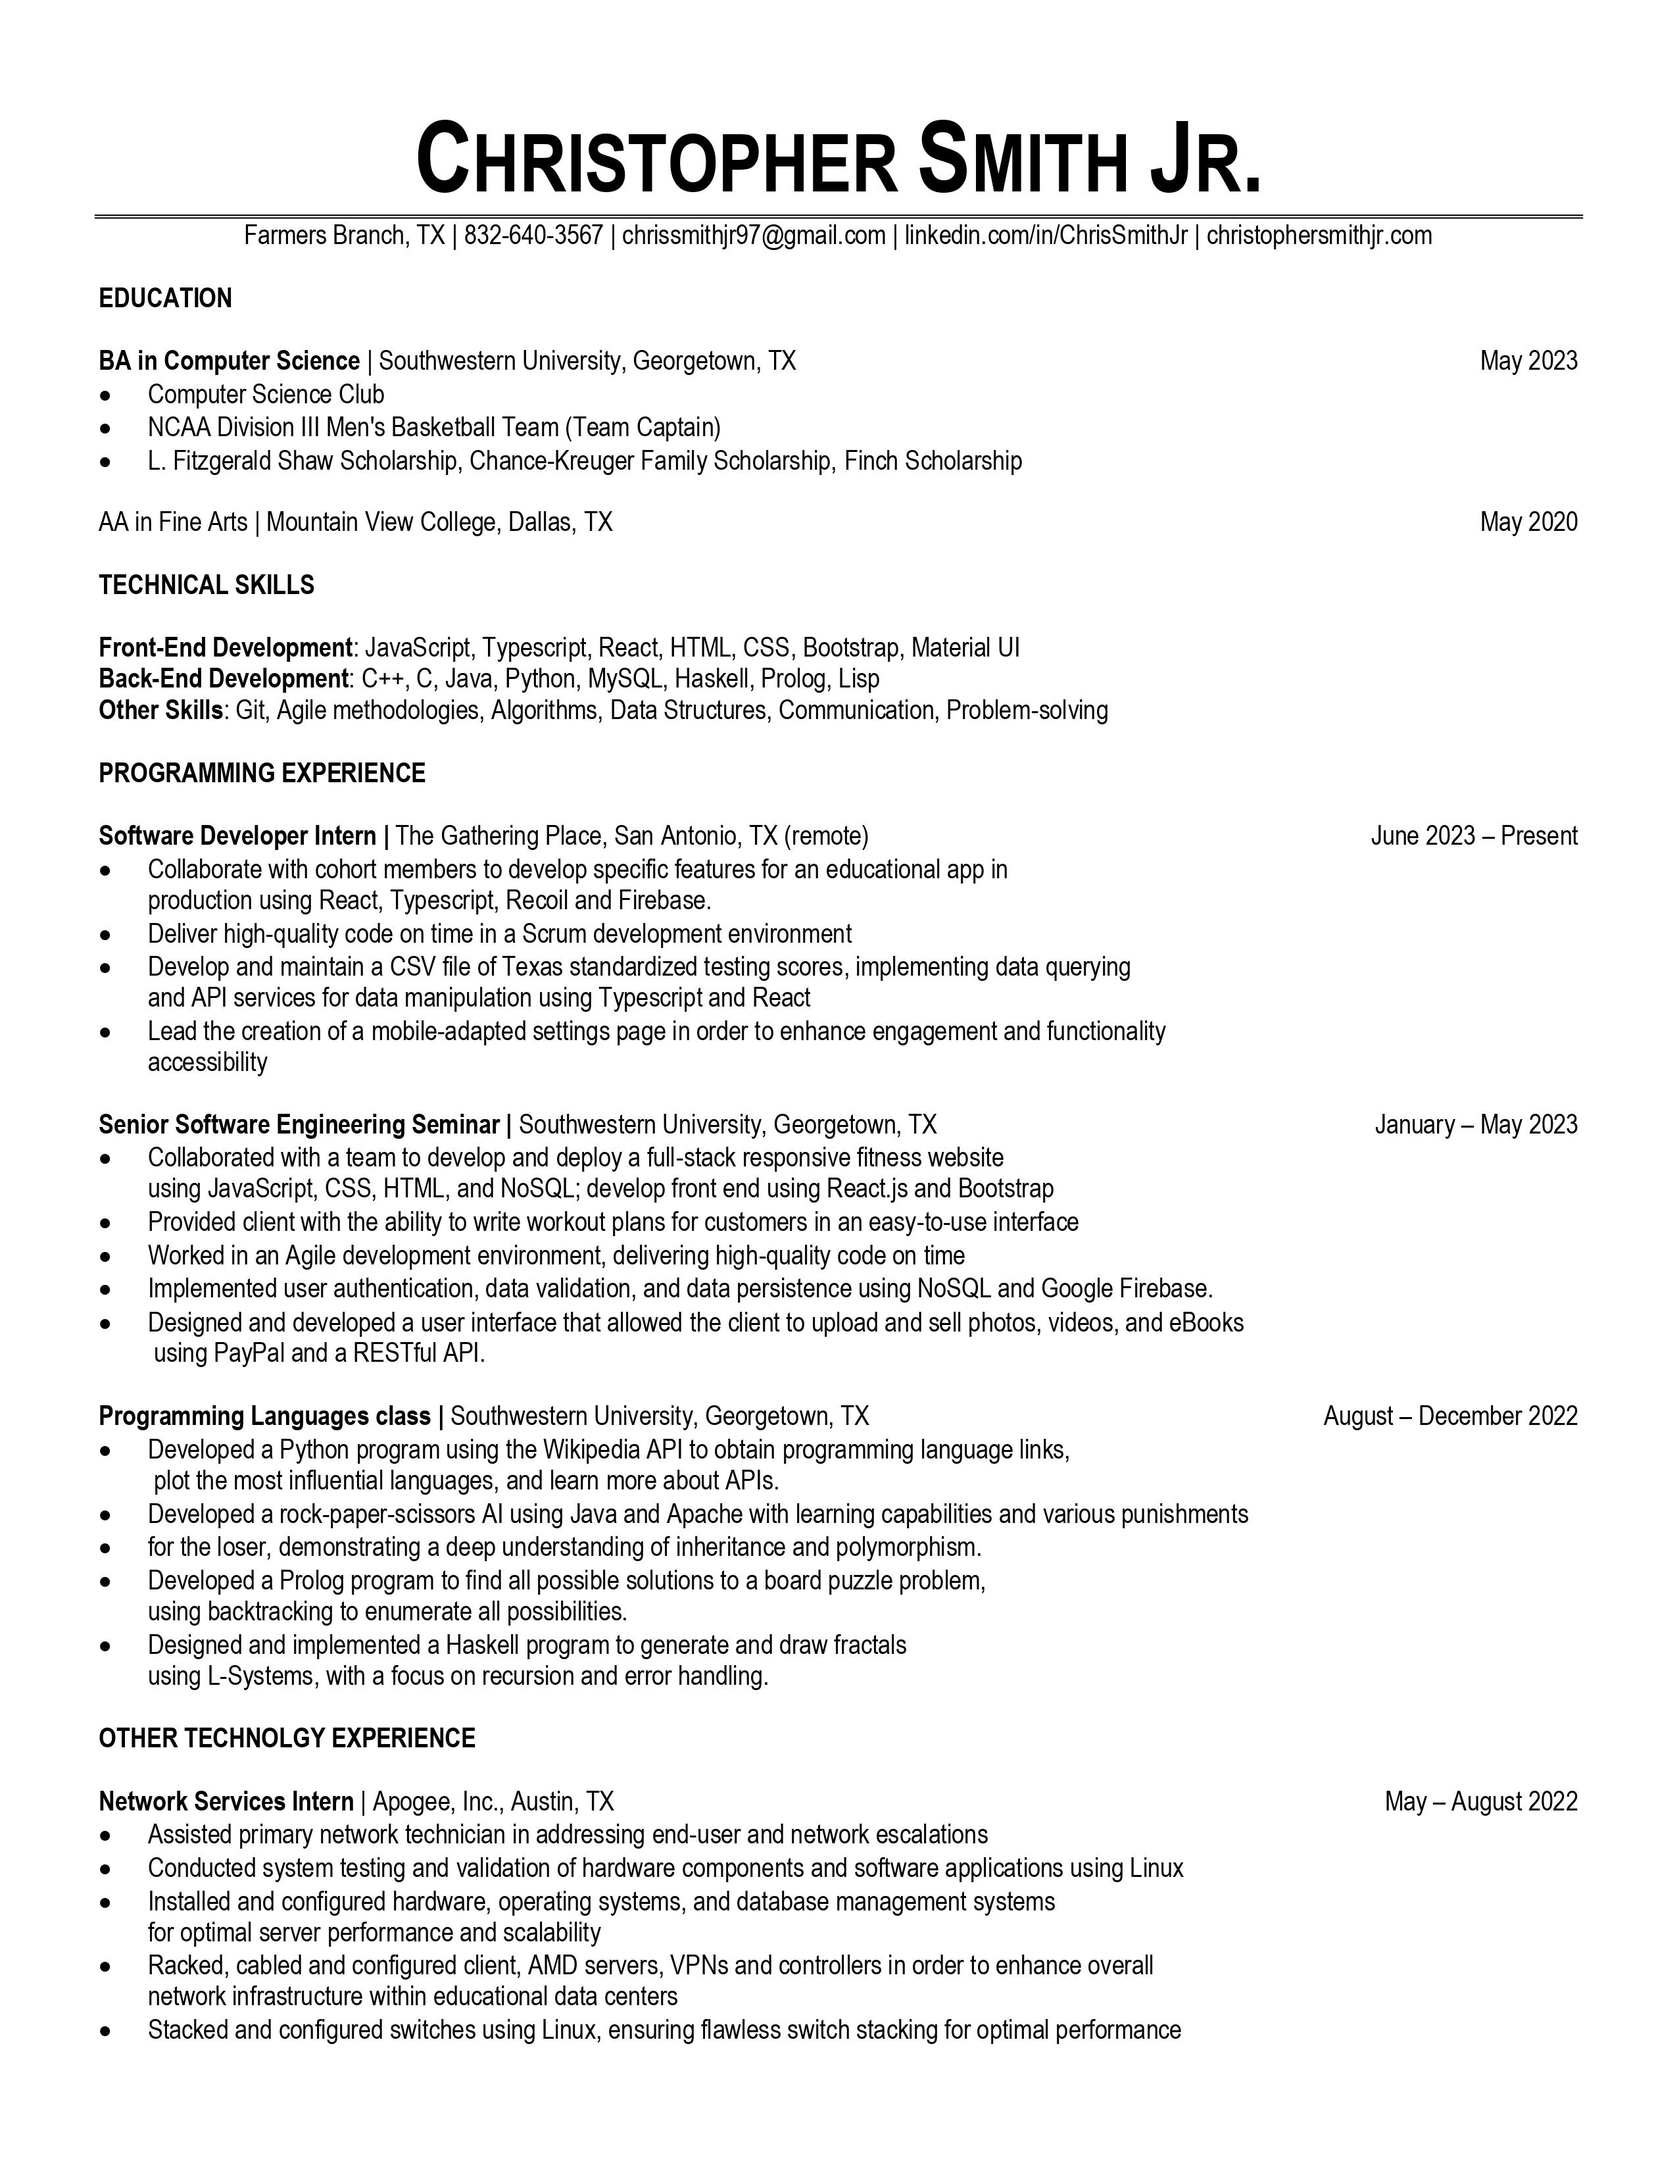
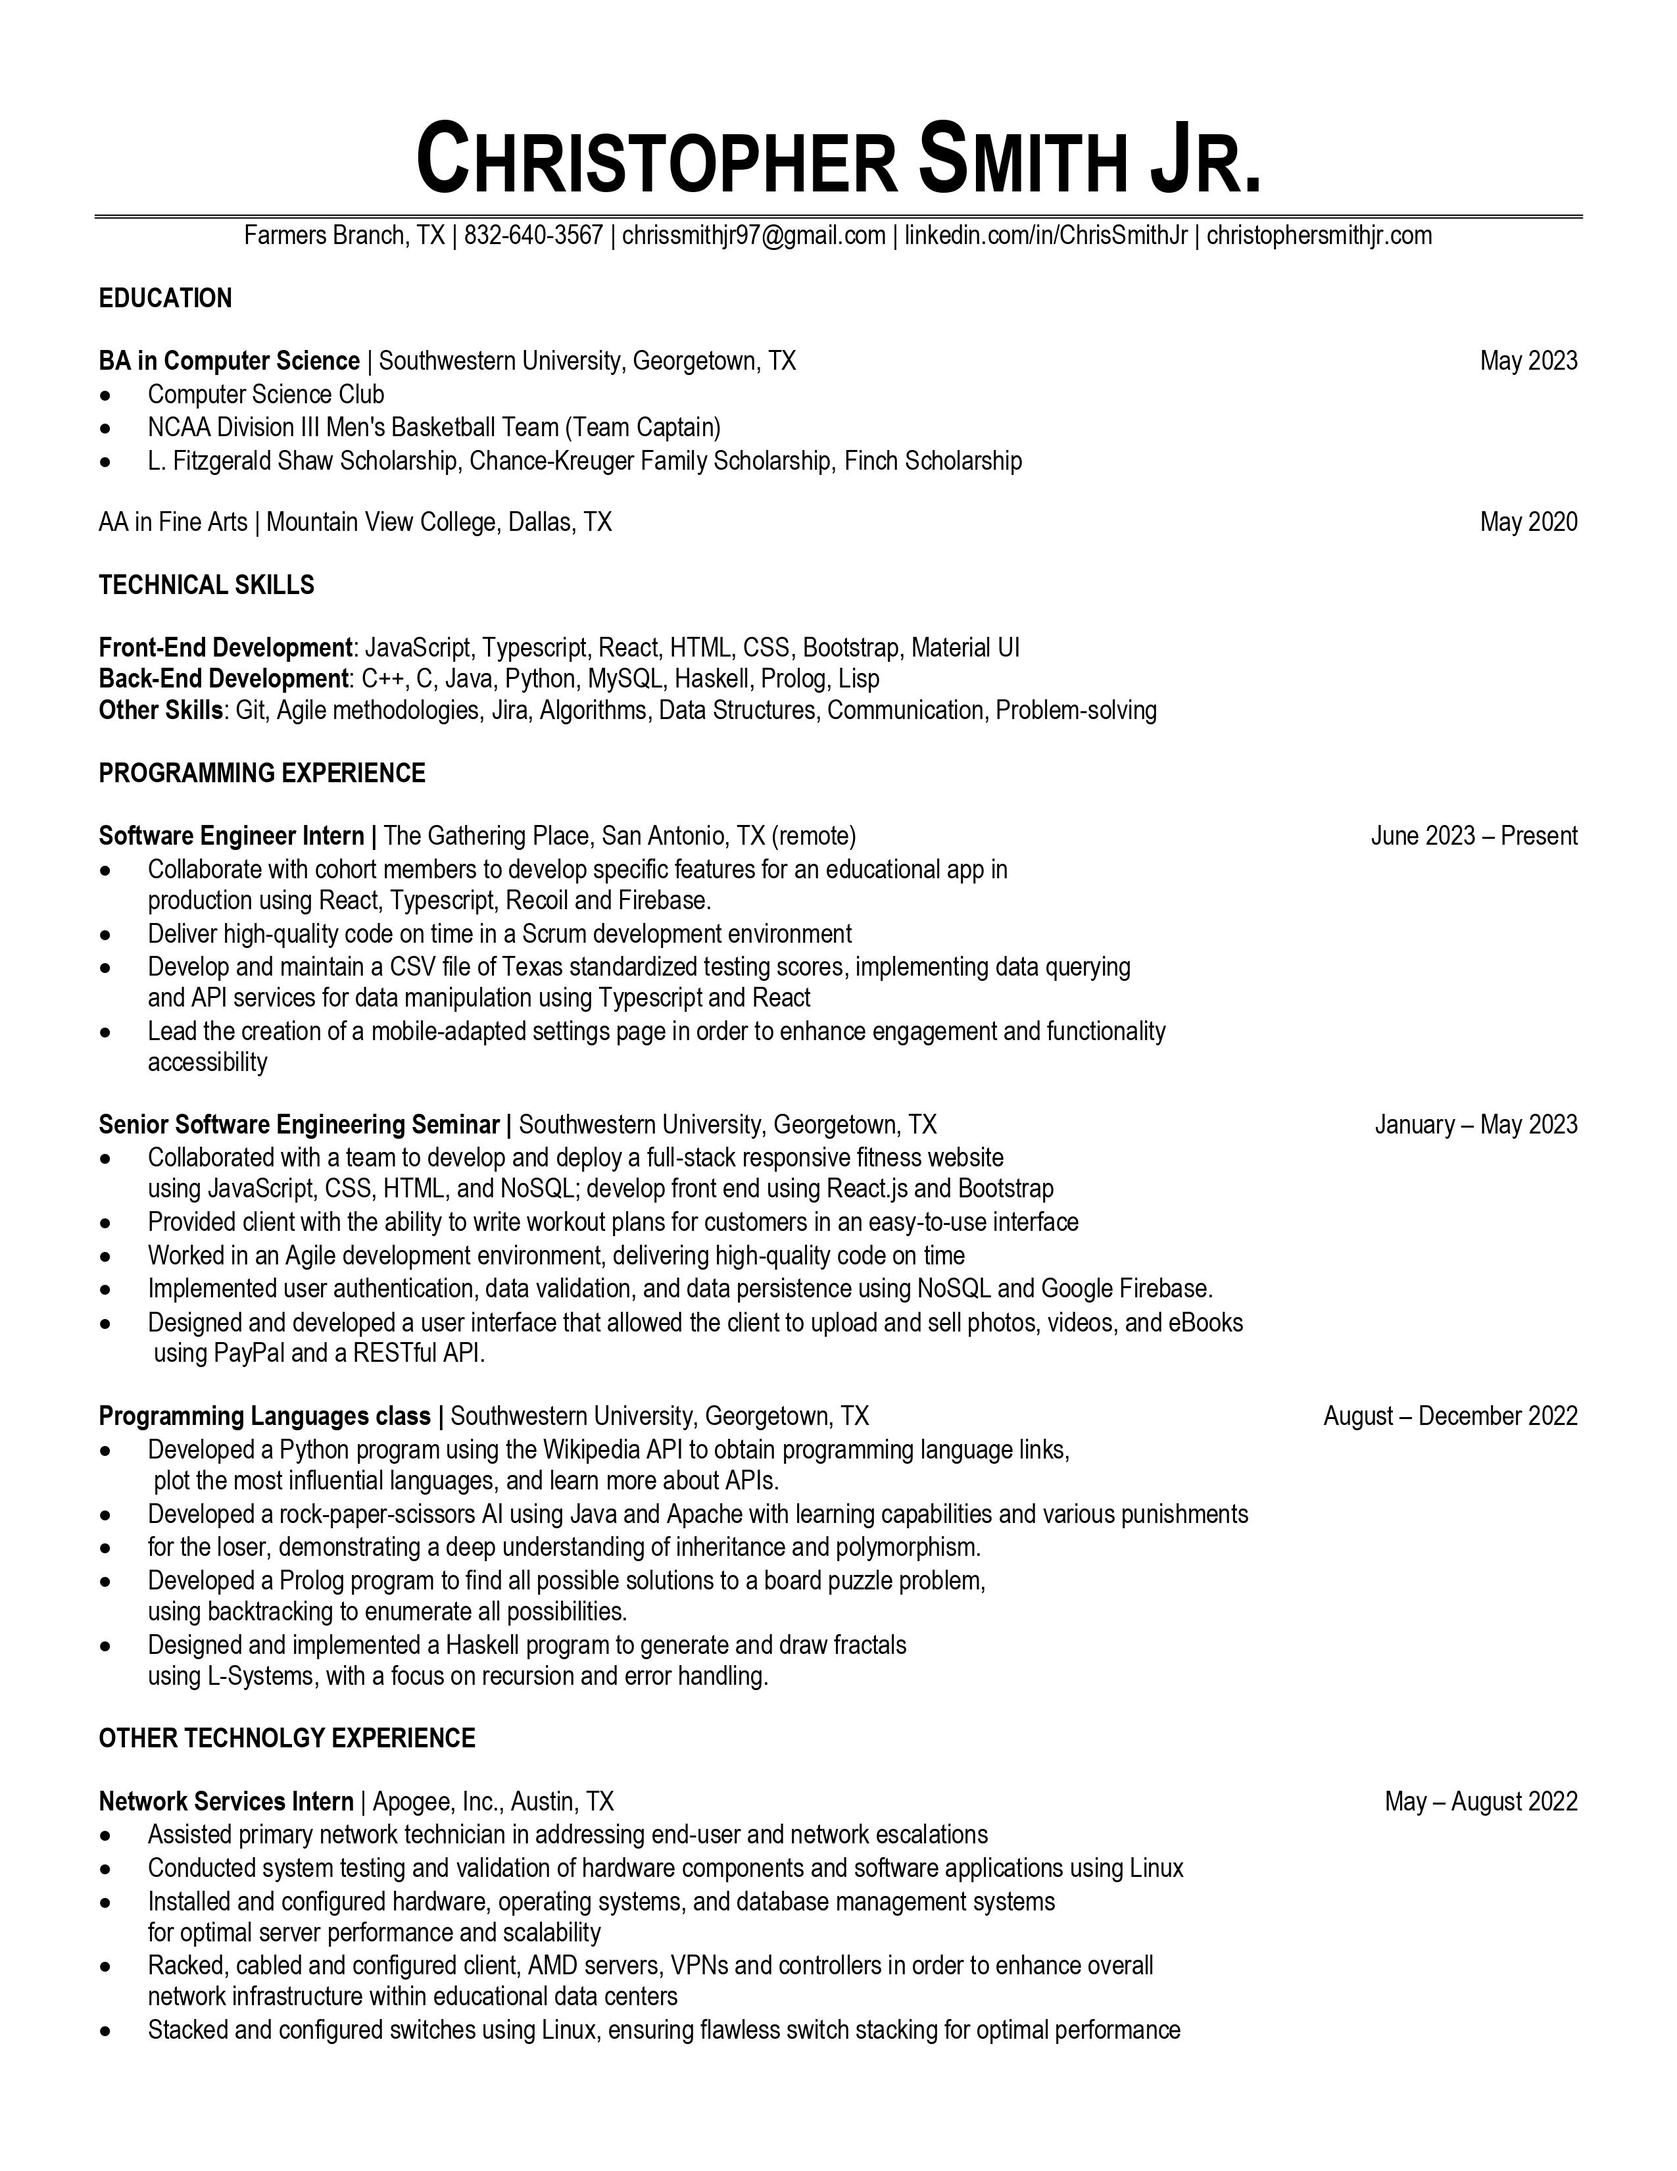
Updated the relative information to be current.

Changed region(s): [[0.1239, 0.3745, 0.5267, 0.4058], [0.3098, 0.3121, 0.6816, 0.3433]]

diff --git a/website/src/Pages/About.js b/website/src/Pages/About.js
@@ -1,13 +1,13 @@
-import React from "react";
-import NavBar from "../Components/NavBar";
-import SocialMedia from "../Components/SocialMedia";
-import Footer2 from "../Components/Footer2";
-import profilePic from "../Images/profile.jpg";
-import "../Pages/PagesCSS/About.css";
+import React from 'react';
+import NavBar from '../Components/NavBar';
+import SocialMedia from '../Components/SocialMedia';
+import Footer2 from '../Components/Footer2';
+import profilePic from '../Images/profile.jpg';
+import '../Pages/PagesCSS/About.css';
 
 // import FlipCard from "../Components/FlipCard";
 
-const backgroundColor = "black";
+const backgroundColor = 'black';
 
 export default function About() {
 	return (
@@ -21,7 +21,7 @@ export default function About() {
 							src={profilePic}
 							alt="Profile"
 							className="img-fluid profile-pic "
-							style={{ paddingTop: "20px" }}
+							style={{ paddingTop: '20px' }}
 						/>
 					</div>
 
@@ -29,65 +29,64 @@ export default function About() {
 						<h1 className="about-heading">About Me</h1>
 
 						<p className="about-text">
-							Hello, my name is Christopher Smith Jr., and I am a new grad
-							computer science major eager to contribute my technical skills and
-							knowledge to a company that values innovation and problem-solving.
+							Hi, I'm Christopher Smith Jr., a passionate Software Engineer with
+							a flair for crafting innovative solutions and websites.
 						</p>
 
 						<p className="about-text">
-							I have experience in developing web applications as well as
-							building scalable and efficient software solutions that solve
-							real-world problems. Throughout my studies, I have gained
-							experience with a variety of programming languages and
-							technologies, including{" "}
+							I'm a dedicated software engineer driven by the pursuit of turning
+							creative ideas into digital realities. Through my education and
+							work experiences, I've honed my skills in various programming
+							languages and technologies, including{' '}
 							<span className="highlight">
-								C++, C, Java, MySQL, Assembly, JavaScript, HTML, CSS, Python,
-								Haskell, Prolog, Lisp, React, Git, Algorithms, and Data
-								Structures
+								JavaScript, TypeScript, C++, C, Java, React, HTML, CSS, Material
+								UI, Bootstrap, MySQL, Assembly, Python, Haskell, Prolog, Lisp,
+								Git
 							</span>
 							.
 						</p>
 
-						{/* <p className="about-text">
-              I am eager to join a team where I can apply my skills and contribute
-              to impactful projects. I am a quick learner, a problem-solver and I
-              enjoy staying up to date with new technologies and industry trends.
-            </p> */}
-
 						<p className="about-text">
-							During my internship at Apogee, Inc. as a Network Services Intern,
-							I had the opportunity to contribute to large-scale projects and
-							gain experience working collaboratively with cross-functional
-							teams. Through my work on upgrading the company's system, I
-							developed a strong understanding of development principles and
-							best practices. Through these experiences, I developed my
-							communication and collaboration skills, and demonstrated my
-							ability to deliver quality solutions independently.
+							I've gained hands-on experience in developing and delivering
+							high-quality software solutions. As a collaborative team player
+							and effective communicator, I thrive on learning from others and
+							sharing my knowledge.
 						</p>
 
 						<p className="about-text">
-							As a lifelong learner, I stay up-to-date with new technologies and
-							industry trends in order to continually improve my skills and
-							knowledge. I am committed to delivering high-quality work and
-							meeting project deadlines.
+							Currently, I'm a Software Engineer Intern at The Gathering Place,
+							where I collaborate with my cohort to develop specific features
+							for an educational app in production. My tech stack includes
+							React, TypeScript, Recoil, and Firebase. Prior to that, I worked
+							as a Network Service Intern, where I racked, cabled, and
+							configured client and AMD servers, VPN, and controllers, enhancing
+							overall network infrastructure in educational data centers.
 						</p>
 
 						<p className="about-text">
-							I am eager to join a team where I can apply my skills and
-							contribute to impactful projects. I am a quick learner, a
-							problem-solver, If you are interested in discussing potential
-							projects or learning more about my professional experience, please
-							feel free to get in touch with me via the{" "}
+							When I'm not coding, you can find me working out, hiking, reading,
+							or enjoying any outdoor activities.
+						</p>
+
+						<p className="about-text">
+							I'm actively seeking a software development role at a
+							high-performing organization, where I can leverage my skills and
+							experience to support growth and success. I'm eager to join a team
+							of talented engineers and contribute to the development of
+							innovative solutions and websites that make a positive impact. If
+							you're interested in discussing potential projects or learning
+							more about my professional experience, please feel free to get in
+							touch with me through the{' '}
 							<a
 								href="/contact"
-								style={{ color: "darkorange", textDecoration: "" }}
+								style={{ color: 'darkorange', textDecoration: 'underline' }}
 							>
 								contact form
-							</a>{" "}
-							or the information provided on my{" "}
+							</a>{' '}
+							or by reviewing my{' '}
 							<a
 								href="/resume"
-								style={{ color: "darkorange", textDecoration: "" }}
+								style={{ color: 'darkorange', textDecoration: 'underline' }}
 							>
 								resume
 							</a>

diff --git a/website/src/Components/HomePage.js b/website/src/Components/HomePage.js
@@ -12,51 +12,47 @@ const styles = {
 	backgroundSize: 'cover',
 	backgroundPosition: 'center',
 	backgroundRepeat: 'no-repeat',
-	height: '100vh',
-	width: '100vw',
+	minHeight: '100vh', // Use minHeight to ensure content doesn't overflow
 	display: 'flex',
 	flexDirection: 'column',
 	alignItems: 'center',
 	justifyContent: 'center',
-	color: 'white', // Text color
-	textAlign: 'center', // Center align text
+	color: 'white',
+	textAlign: 'center',
 };
 
 const imageStyles = {
 	borderRadius: '50%',
-	width: '250px', // Adjust the size as needed
-	height: '250px', // Adjust the size as needed
-	border: '5px solid white', // Add a border around the image
-	marginBottom: '20px', // Add space below the image
+	width: '250px',
+	height: '250px',
+	border: '5px solid white',
+	marginBottom: '20px',
 };
 
 const titleStyles = {
-	fontSize: '2.5rem', // Increase the font size
-	marginBottom: '10px', // Add space below the title
+	fontSize: '2.5rem',
+	marginBottom: '10px',
 };
 
 const subtitleStyles = {
-	fontSize: '1.8rem', // Increase the font size
-	fontStyle: 'italic', // Make it italic
+	fontSize: '1.8rem',
+	fontStyle: 'italic',
 };
 
 const descriptionStyles = {
-	maxWidth: '600px', // Limit the width of the description
-	fontSize: '1.2rem', // Increase the font size
-	margin: '20px 0', // Add space around the description
+	maxWidth: '600px',
+	fontSize: '1.2rem',
+	margin: '20px 0',
 };
-
 
 export default function HomePage() {
 	const [currentWordIndex, setCurrentWordIndex] = useState(0);
 
 	useEffect(() => {
-		// Create a timer to switch between words every 2 seconds (adjust as needed)
 		const timer = setInterval(() => {
 			setCurrentWordIndex((prevIndex) => (prevIndex + 1) % words.length);
 		}, 4000);
 
-		// Clear the timer when the component unmounts
 		return () => {
 			clearInterval(timer);
 		};
@@ -67,11 +63,11 @@ export default function HomePage() {
 			<h1>👋 Welcome to my Portfolio!</h1>
 			<img
 				srcSet={`${largeProfilePic} 1024w,
-                  ${largeProfilePic} 768w,
-                  ${largeProfilePic} 480w`}
+              ${largeProfilePic} 768w,
+              ${largeProfilePic} 480w`}
 				sizes="(max-width: 480px) 100vw,
-               (max-width: 768px) 50vw,
-               33vw"
+             (max-width: 768px) 50vw,
+             33vw"
 				src={largeProfilePic}
 				alt="Profile"
 				className="home-page-image"
@@ -94,13 +90,12 @@ export default function HomePage() {
 					people's lives.
 				</p>
 			</div>
-			<Link to="/About" className="home-page-cta" >
+			<Link to="/About" className="home-page-cta">
 				Learn More About Me
 			</Link>
 			<Suspense fallback={<div>Loading...</div>}>
 				<SocialMedia />
 			</Suspense>
-			{/* <Skills /> */}
 		</div>
 	);
 }

diff --git a/website/src/Components/ComponentCSS/NavAndHomepage.css b/website/src/Components/ComponentCSS/NavAndHomepage.css
@@ -194,6 +194,54 @@
   }
 }
 
+/* Responsive adjustments for smaller screens */
+@media (max-width: 768px) {
+  .home-page-title {
+    font-size: 36px;
+    /* Decrease the font size for smaller screens */
+  }
+     .home-page-subtitle {
+       font-size: 24px;
+       /* Decrease the font size for smaller screens */
+     }
+  
+     .home-page-description {
+       font-size: 16px;
+       /* Decrease the font size for smaller screens */
+     }
+  
+     .home-page-cta {
+       font-size: 16px;
+       /* Decrease the font size for smaller screens */
+       padding: 8px 16px;
+       /* Adjust padding for smaller screens */
+     }
+     }
+
+ @media (max-width: 390px) {
+   .home-page-title {
+     font-size: 25px;
+     /* Decrease the font size for smaller screens */
+   }
+
+   .home-page-subtitle {
+     font-size: 24px;
+     /* Decrease the font size for smaller screens */
+   }
+
+   .home-page-description {
+     font-size: 16px;
+     /* Decrease the font size for smaller screens */
+   }
+
+   .home-page-cta {
+     font-size: 16px;
+     /* Decrease the font size for smaller screens */
+     padding: 8px 16px;
+     /* Adjust padding for smaller screens */
+   }
+ }
+
   
   
   .navbar-nav .nav-link {

diff --git a/website/build/index 2.html b/website/build/index 2.html
@@ -1,0 +1,1 @@
+<!doctype html><html lang="en"><head><meta charset="utf-8"/><link rel="icon" href="./Logo.png"/><meta name="viewport" content="width=device-width,initial-scale=1"/><meta name="theme-color" content="#000000"/><meta name="description" content="Web site created using create-react-app"/><link rel="apple-touch-icon" href="./Logo.png"/><script async src="https://www.googletagmanager.com/gtag/js?id=G-GNK4HP7LE8"></script><script>function gtag(){dataLayer.push(arguments)}window.dataLayer=window.dataLayer||[],gtag("js",new Date),gtag("config","G-GNK4HP7LE8")</script><title>Christopher Smith Jr</title><script defer="defer" src="/static/js/main.ef9b18da.js"></script><link href="/static/css/main.4cefefbb.css" rel="stylesheet"></head><body><noscript>You need to enable JavaScript to run this app.</noscript><div id="root"></div><script type="text/javascript" src="https://cdn.jsdelivr.net/npm/emailjs-com@2.8.5/dist/email.min.js"></script><script type="text/javascript">emailjs.init("uJpx4DXA_gp3IDEks")</script></body></html>

diff --git a/website/src/Pages/Experience.js b/website/src/Pages/Experience.js
@@ -36,7 +36,7 @@ export default function Experience() {
 							The Gathering Place.
 						</h3>
 						<h4 className="vertical-timeline-element-subtitle">
-							Computer Science Intern
+							Software Engineer Intern
 						</h4>
 						<p className="subtext">San Antonio, Remote</p>
 						<p className="subtext">

diff --git a/website/src/Pages/PagesCSS/Experience.css b/website/src/Pages/PagesCSS/Experience.css
@@ -19,6 +19,7 @@ font-style: italic;
 }
 .vertical-timeline-element-subtitle{
     color:black;
+    font-style: oblique;
 }
 .subtext{
     color:black;
